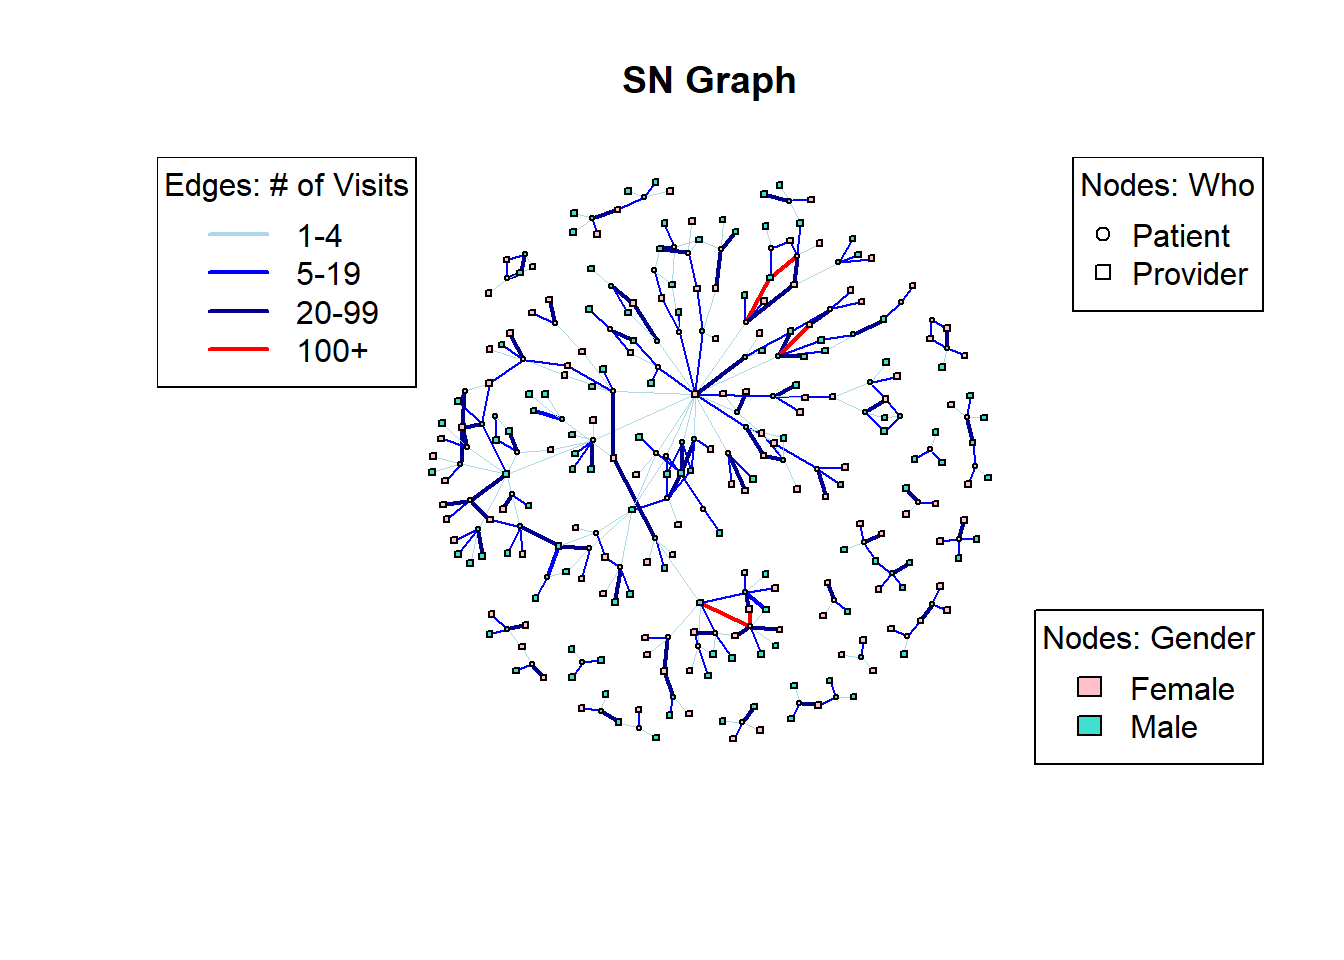
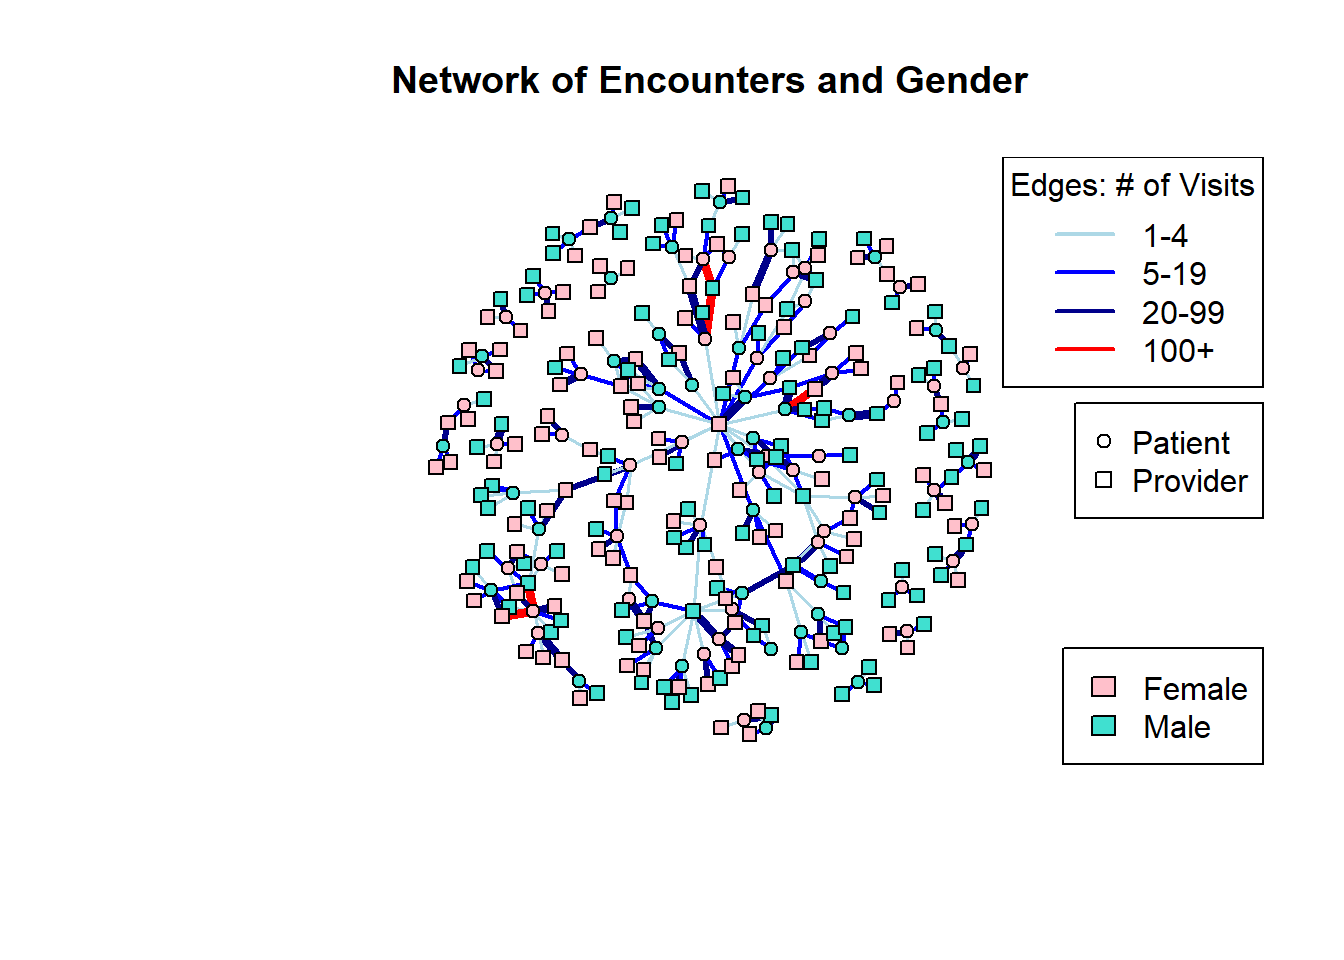
post one update graph

diff --git a/docs/posts/Post_One - Copy/post_1_drug.html b/docs/posts/Post_One - Copy/post_1_drug.html
@@ -7,7 +7,7 @@
 <meta name="viewport" content="width=device-width, initial-scale=1.0, user-scalable=yes">
 
 <meta name="author" content="Sue-Ellen Duffy">
-<meta name="dcterms.date" content="2024-04-29">
+<meta name="dcterms.date" content="2024-04-25">
 
 <title>Social_Networks_Blog_Space - POST 1</title>
 <style>
@@ -142,7 +142,7 @@ pre > code.sourceCode > span > a:first-child::before { text-decoration: underlin
 <header id="title-block-header" class="quarto-title-block default page-columns page-full">
   <div class="quarto-title-banner page-columns page-full">
     <div class="quarto-title column-body">
-      <h1 class="title">Data Cleaning, Exploration, and Network Analysis</h1>
+      <h1 class="title">POST 1</h1>
             <p class="subtitle lead">Data Cleaning, Exploration, and Network Analysis</p>
                                 <div class="quarto-categories">
                 <div class="quarto-category">code</div>
@@ -164,7 +164,7 @@ pre > code.sourceCode > span > a:first-child::before { text-decoration: underlin
       <div>
       <div class="quarto-title-meta-heading">Published</div>
       <div class="quarto-title-meta-contents">
-        <p class="date">April 29, 2024</p>
+        <p class="date">April 25, 2024</p>
       </div>
     </div>
     
@@ -442,7 +442,7 @@ date  (2): BIRTHDATE, DEATHDATE
 2 Julianne852 Barrows492 Female white Widowed  hamilton    39537    65
 3 Alesha810 Heaney114    Female white Divorced framingham 114339    46
 4 Sandee884 Rice937      Female white &lt;NA&gt;     taunton     96256    26
-5 Mia349 Runte676        Female white Divorced chelmsford  71238    44
+5 Mia349 Runte676        Female white Divorced chelmsford  71238    45
 6 Damian46 Dach178       Male   white &lt;NA&gt;     swansea     74155    26</code></pre>
 </div>
 </div>
@@ -881,7 +881,7 @@ dttm (2): START, STOP
 2 Julianne852 Barrows492 Female white Widowed  hamilton    39537    65 PATIENT
 3 Alesha810 Heaney114    Female white Divorced framingham 114339    46 PATIENT
 4 Sandee884 Rice937      Female white &lt;NA&gt;     taunton     96256    26 PATIENT
-5 Mia349 Runte676        Female white Divorced chelmsford  71238    44 PATIENT
+5 Mia349 Runte676        Female white Divorced chelmsford  71238    45 PATIENT
 6 Damian46 Dach178       Male   white &lt;NA&gt;     swansea     74155    26 PATIENT</code></pre>
 </div>
 </div>
@@ -960,18 +960,21 @@ dttm (2): START, STOP
 <span id="cb79-14"><a href="#cb79-14" aria-hidden="true" tabindex="-1"></a>edge_widths <span class="ot">&lt;-</span> <span class="fu">ifelse</span>(<span class="fu">E</span>(g)<span class="sc">$</span>COUNT <span class="sc">&lt;</span> <span class="dv">5</span>, <span class="dv">1</span>,</span>
 <span id="cb79-15"><a href="#cb79-15" aria-hidden="true" tabindex="-1"></a>                      <span class="fu">ifelse</span>(<span class="fu">E</span>(g)<span class="sc">$</span>COUNT <span class="sc">&lt;</span> <span class="dv">20</span>, <span class="dv">50</span>,</span>
 <span id="cb79-16"><a href="#cb79-16" aria-hidden="true" tabindex="-1"></a>                             <span class="dv">3</span> <span class="sc">*</span> (<span class="fu">E</span>(g)<span class="sc">$</span>COUNT <span class="sc">-</span> count_range[<span class="dv">1</span>]) <span class="sc">/</span> (count_range[<span class="dv">2</span>] <span class="sc">-</span> count_range[<span class="dv">1</span>])))</span>
-<span id="cb79-17"><a href="#cb79-17" aria-hidden="true" tabindex="-1"></a>edge_widths <span class="ot">&lt;-</span> edge_widths <span class="sc">*</span><span class="dv">300</span></span>
+<span id="cb79-17"><a href="#cb79-17" aria-hidden="true" tabindex="-1"></a></span>
 <span id="cb79-18"><a href="#cb79-18" aria-hidden="true" tabindex="-1"></a></span>
-<span id="cb79-19"><a href="#cb79-19" aria-hidden="true" tabindex="-1"></a>edge_widths <span class="ot">&lt;-</span> <span class="fu">ifelse</span>(<span class="fu">E</span>(g)<span class="sc">$</span>COUNT <span class="sc">&lt;</span> <span class="dv">5</span>, <span class="fl">0.5</span>, <span class="fu">ifelse</span>(<span class="fu">E</span>(g)<span class="sc">$</span>COUNT <span class="sc">&lt;</span> <span class="dv">20</span>, <span class="dv">1</span>, <span class="dv">2</span>))</span>
-<span id="cb79-20"><a href="#cb79-20" aria-hidden="true" tabindex="-1"></a>edge_colors <span class="ot">&lt;-</span> <span class="fu">ifelse</span>(<span class="fu">E</span>(g)<span class="sc">$</span>COUNT <span class="sc">&lt;</span> <span class="dv">5</span>, <span class="st">"lightblue"</span>, </span>
-<span id="cb79-21"><a href="#cb79-21" aria-hidden="true" tabindex="-1"></a>                      <span class="fu">ifelse</span>(<span class="fu">E</span>(g)<span class="sc">$</span>COUNT <span class="sc">&lt;=</span> <span class="dv">20</span>, <span class="st">"blue"</span>,</span>
-<span id="cb79-22"><a href="#cb79-22" aria-hidden="true" tabindex="-1"></a>                             <span class="fu">ifelse</span>(<span class="fu">E</span>(g)<span class="sc">$</span>COUNT <span class="sc">&lt;=</span> <span class="dv">100</span>, <span class="st">"darkblue"</span>,<span class="st">"red"</span>)))</span></code><button title="Copy to Clipboard" class="code-copy-button"><i class="bi"></i></button></pre></div>
+<span id="cb79-19"><a href="#cb79-19" aria-hidden="true" tabindex="-1"></a>edge_widths <span class="ot">&lt;-</span> <span class="fu">ifelse</span>(<span class="fu">E</span>(g)<span class="sc">$</span>COUNT <span class="sc">&lt;</span> <span class="dv">5</span>, <span class="fl">0.5</span>, </span>
+<span id="cb79-20"><a href="#cb79-20" aria-hidden="true" tabindex="-1"></a>                      <span class="fu">ifelse</span>(<span class="fu">E</span>(g)<span class="sc">$</span>COUNT <span class="sc">&lt;</span> <span class="dv">20</span>, .<span class="dv">8</span>, </span>
+<span id="cb79-21"><a href="#cb79-21" aria-hidden="true" tabindex="-1"></a>                             <span class="fu">ifelse</span>(<span class="fu">E</span>(g)<span class="sc">$</span>COUNT <span class="sc">&lt;</span> <span class="dv">50</span>, <span class="dv">1</span>, <span class="fl">1.5</span>)))</span>
+<span id="cb79-22"><a href="#cb79-22" aria-hidden="true" tabindex="-1"></a>edge_colors <span class="ot">&lt;-</span> <span class="fu">ifelse</span>(<span class="fu">E</span>(g)<span class="sc">$</span>COUNT <span class="sc">&lt;</span> <span class="dv">5</span>, <span class="st">"lightblue"</span>, </span>
+<span id="cb79-23"><a href="#cb79-23" aria-hidden="true" tabindex="-1"></a>                      <span class="fu">ifelse</span>(<span class="fu">E</span>(g)<span class="sc">$</span>COUNT <span class="sc">&lt;=</span> <span class="dv">20</span>, <span class="st">"blue"</span>,</span>
+<span id="cb79-24"><a href="#cb79-24" aria-hidden="true" tabindex="-1"></a>                             <span class="fu">ifelse</span>(<span class="fu">E</span>(g)<span class="sc">$</span>COUNT <span class="sc">&lt;=</span> <span class="dv">100</span>, <span class="st">"darkblue"</span>,<span class="st">"red"</span>)))</span>
+<span id="cb79-25"><a href="#cb79-25" aria-hidden="true" tabindex="-1"></a>edge_widths <span class="ot">&lt;-</span> edge_widths <span class="sc">*</span><span class="dv">3</span></span></code><button title="Copy to Clipboard" class="code-copy-button"><i class="bi"></i></button></pre></div>
 </div>
 <div class="cell">
 <div class="sourceCode cell-code" id="cb80"><pre class="sourceCode r code-with-copy"><code class="sourceCode r"><span id="cb80-1"><a href="#cb80-1" aria-hidden="true" tabindex="-1"></a><span class="fu">plot</span>(g, </span>
 <span id="cb80-2"><a href="#cb80-2" aria-hidden="true" tabindex="-1"></a>     <span class="at">layout =</span> layout.fruchterman.reingold, </span>
 <span id="cb80-3"><a href="#cb80-3" aria-hidden="true" tabindex="-1"></a>     <span class="at">vertex.label.dist =</span> <span class="dv">2</span>, </span>
-<span id="cb80-4"><a href="#cb80-4" aria-hidden="true" tabindex="-1"></a>     <span class="at">vertex.size =</span> <span class="dv">2</span>, </span>
+<span id="cb80-4"><a href="#cb80-4" aria-hidden="true" tabindex="-1"></a>     <span class="at">vertex.size =</span> <span class="dv">5</span>, </span>
 <span id="cb80-5"><a href="#cb80-5" aria-hidden="true" tabindex="-1"></a>     <span class="at">vertex.color =</span> vertex_colors,</span>
 <span id="cb80-6"><a href="#cb80-6" aria-hidden="true" tabindex="-1"></a>     <span class="at">vertex.shape =</span> vertex_shape,</span>
 <span id="cb80-7"><a href="#cb80-7" aria-hidden="true" tabindex="-1"></a>     <span class="at">edge.label =</span> <span class="cn">NA</span>,</span>
@@ -979,25 +982,23 @@ dttm (2): START, STOP
 <span id="cb80-9"><a href="#cb80-9" aria-hidden="true" tabindex="-1"></a>     <span class="at">vertex.label.cex =</span> <span class="fl">0.2</span>, </span>
 <span id="cb80-10"><a href="#cb80-10" aria-hidden="true" tabindex="-1"></a>     <span class="at">edge.width =</span> edge_widths,</span>
 <span id="cb80-11"><a href="#cb80-11" aria-hidden="true" tabindex="-1"></a>     <span class="at">edge.color =</span> edge_colors,</span>
-<span id="cb80-12"><a href="#cb80-12" aria-hidden="true" tabindex="-1"></a>     <span class="at">main =</span> <span class="st">"SN Graph"</span>)</span>
+<span id="cb80-12"><a href="#cb80-12" aria-hidden="true" tabindex="-1"></a>     <span class="at">main =</span> <span class="st">"Network of Encounters and Gender"</span>)</span>
 <span id="cb80-13"><a href="#cb80-13" aria-hidden="true" tabindex="-1"></a><span class="co"># Define legend for vertex colors</span></span>
 <span id="cb80-14"><a href="#cb80-14" aria-hidden="true" tabindex="-1"></a><span class="fu">legend</span>(<span class="st">"bottomright"</span>,</span>
-<span id="cb80-15"><a href="#cb80-15" aria-hidden="true" tabindex="-1"></a>       <span class="at">legend =</span> <span class="fu">c</span>(<span class="st">"Female"</span>, <span class="st">"Male"</span>),  <span class="co"># You can customize these labels</span></span>
-<span id="cb80-16"><a href="#cb80-16" aria-hidden="true" tabindex="-1"></a>       <span class="at">fill =</span> <span class="fu">c</span>(<span class="st">"pink"</span>, <span class="st">"turquoise"</span>),   <span class="co"># Fill colors corresponding to vertex colors</span></span>
-<span id="cb80-17"><a href="#cb80-17" aria-hidden="true" tabindex="-1"></a>       <span class="at">title =</span> <span class="st">"Nodes: Gender"</span>)              <span class="co"># Legend title</span></span>
-<span id="cb80-18"><a href="#cb80-18" aria-hidden="true" tabindex="-1"></a></span>
-<span id="cb80-19"><a href="#cb80-19" aria-hidden="true" tabindex="-1"></a><span class="co"># Define legend for vertex shapes</span></span>
-<span id="cb80-20"><a href="#cb80-20" aria-hidden="true" tabindex="-1"></a><span class="fu">legend</span>(<span class="st">"topright"</span>,</span>
-<span id="cb80-21"><a href="#cb80-21" aria-hidden="true" tabindex="-1"></a>       <span class="at">legend =</span> <span class="fu">c</span>(<span class="st">"Patient"</span>, <span class="st">"Provider"</span>),  <span class="co"># You can customize these labels</span></span>
-<span id="cb80-22"><a href="#cb80-22" aria-hidden="true" tabindex="-1"></a>       <span class="at">pch =</span> <span class="fu">c</span>(<span class="dv">1</span>, <span class="dv">0</span>),                      <span class="co"># Point shapes corresponding to vertex shapes</span></span>
-<span id="cb80-23"><a href="#cb80-23" aria-hidden="true" tabindex="-1"></a>       <span class="at">title =</span> <span class="st">"Nodes: Who"</span>)                     <span class="co"># Legend title</span></span>
-<span id="cb80-24"><a href="#cb80-24" aria-hidden="true" tabindex="-1"></a></span>
-<span id="cb80-25"><a href="#cb80-25" aria-hidden="true" tabindex="-1"></a><span class="co"># Define legend for edge colors</span></span>
-<span id="cb80-26"><a href="#cb80-26" aria-hidden="true" tabindex="-1"></a><span class="fu">legend</span>(<span class="st">"topleft"</span>,</span>
-<span id="cb80-27"><a href="#cb80-27" aria-hidden="true" tabindex="-1"></a>       <span class="at">legend =</span> <span class="fu">c</span>(<span class="st">"1-4"</span>, <span class="st">"5-19"</span>, <span class="st">"20-99"</span>, <span class="st">"100+"</span>),  <span class="co"># You can customize these labels</span></span>
-<span id="cb80-28"><a href="#cb80-28" aria-hidden="true" tabindex="-1"></a>       <span class="at">col =</span> <span class="fu">c</span>(<span class="st">"lightblue"</span>, <span class="st">"blue"</span>,<span class="st">"darkblue"</span>, <span class="st">"red"</span>),  <span class="co"># Line colors corresponding to edge colors</span></span>
-<span id="cb80-29"><a href="#cb80-29" aria-hidden="true" tabindex="-1"></a>       <span class="at">lwd =</span> <span class="dv">2</span>,                            <span class="co"># Line width</span></span>
-<span id="cb80-30"><a href="#cb80-30" aria-hidden="true" tabindex="-1"></a>       <span class="at">title =</span> <span class="st">"Edges: # of Visits"</span>)              <span class="co"># Legend title</span></span></code><button title="Copy to Clipboard" class="code-copy-button"><i class="bi"></i></button></pre></div>
+<span id="cb80-15"><a href="#cb80-15" aria-hidden="true" tabindex="-1"></a>       <span class="at">legend =</span> <span class="fu">c</span>(<span class="st">"Female"</span>, <span class="st">"Male"</span>),</span>
+<span id="cb80-16"><a href="#cb80-16" aria-hidden="true" tabindex="-1"></a>       <span class="at">fill =</span> <span class="fu">c</span>(<span class="st">"pink"</span>, <span class="st">"turquoise"</span>))     </span>
+<span id="cb80-17"><a href="#cb80-17" aria-hidden="true" tabindex="-1"></a></span>
+<span id="cb80-18"><a href="#cb80-18" aria-hidden="true" tabindex="-1"></a><span class="co"># Define legend for vertex shapes</span></span>
+<span id="cb80-19"><a href="#cb80-19" aria-hidden="true" tabindex="-1"></a><span class="fu">legend</span>(<span class="st">"right"</span>,</span>
+<span id="cb80-20"><a href="#cb80-20" aria-hidden="true" tabindex="-1"></a>       <span class="at">legend =</span> <span class="fu">c</span>(<span class="st">"Patient"</span>, <span class="st">"Provider"</span>), </span>
+<span id="cb80-21"><a href="#cb80-21" aria-hidden="true" tabindex="-1"></a>       <span class="at">pch =</span> <span class="fu">c</span>(<span class="dv">1</span>, <span class="dv">0</span>))</span>
+<span id="cb80-22"><a href="#cb80-22" aria-hidden="true" tabindex="-1"></a></span>
+<span id="cb80-23"><a href="#cb80-23" aria-hidden="true" tabindex="-1"></a><span class="co"># Define legend for edge colors</span></span>
+<span id="cb80-24"><a href="#cb80-24" aria-hidden="true" tabindex="-1"></a><span class="fu">legend</span>(<span class="st">"topright"</span>,</span>
+<span id="cb80-25"><a href="#cb80-25" aria-hidden="true" tabindex="-1"></a>       <span class="at">legend =</span> <span class="fu">c</span>(<span class="st">"1-4"</span>, <span class="st">"5-19"</span>, <span class="st">"20-99"</span>, <span class="st">"100+"</span>),  <span class="co"># You can customize these labels</span></span>
+<span id="cb80-26"><a href="#cb80-26" aria-hidden="true" tabindex="-1"></a>       <span class="at">col =</span> <span class="fu">c</span>(<span class="st">"lightblue"</span>, <span class="st">"blue"</span>,<span class="st">"darkblue"</span>, <span class="st">"red"</span>),  <span class="co"># Line colors corresponding to edge colors</span></span>
+<span id="cb80-27"><a href="#cb80-27" aria-hidden="true" tabindex="-1"></a>       <span class="at">lwd =</span> <span class="dv">2</span>,                            <span class="co"># Line width</span></span>
+<span id="cb80-28"><a href="#cb80-28" aria-hidden="true" tabindex="-1"></a>       <span class="at">title =</span> <span class="st">"Edges: # of Visits"</span>)              <span class="co"># Legend title</span></span></code><button title="Copy to Clipboard" class="code-copy-button"><i class="bi"></i></button></pre></div>
 <div class="cell-output-display">
 <p><img src="post_1_drug_files/figure-html/unnamed-chunk-32-1.png" class="img-fluid" width="672"></p>
 </div>

diff --git a/docs/index.html b/docs/index.html
@@ -252,7 +252,7 @@ Sue-Ellen Duffy
 </a>
 </div>
 </div>
-<div class="quarto-post image-right" data-index="2" data-categories="code,analysis,block_model" data-listing-date-sort="1714881600000" data-listing-file-modified-sort="1715051635750" data-listing-date-modified-sort="NaN" data-listing-reading-time-sort="7">
+<div class="quarto-post image-right" data-index="2" data-categories="code,analysis,block_model" data-listing-date-sort="1714881600000" data-listing-file-modified-sort="1715053120596" data-listing-date-modified-sort="NaN" data-listing-reading-time-sort="8">
 <div class="thumbnail">
 <p><a href="./posts/Post_Ten - Copy/post_10_drug.html"> <p class="card-img-top"><img src="posts\Post_Ten - Copy\post_10_drug_files\figure-html\unnamed-chunk-7-1.png"  class="thumbnail-image card-img"/></p> </a></p>
 </div>
@@ -375,7 +375,7 @@ Sue-Ellen Duffy
 </a>
 </div>
 </div>
-<div class="quarto-post image-right" data-index="5" data-categories="code,analysis,block_model" data-listing-date-sort="1714622400000" data-listing-file-modified-sort="1715050531863" data-listing-date-modified-sort="NaN" data-listing-reading-time-sort="15">
+<div class="quarto-post image-right" data-index="5" data-categories="code,analysis,block_model" data-listing-date-sort="1714622400000" data-listing-file-modified-sort="1715053117815" data-listing-date-modified-sort="NaN" data-listing-reading-time-sort="15">
 <div class="thumbnail">
 <p><a href="./posts/Post_Six - Copy/post_6_drug.html"> <p class="card-img-top"><img src="posts\Post_Six - Copy\post_6_drug_files\figure-html\unnamed-chunk-12-1.png"  class="thumbnail-image card-img"/></p> </a></p>
 </div>
@@ -583,7 +583,7 @@ Sue-Ellen Duffy
 </a>
 </div>
 </div>
-<div class="quarto-post image-right" data-index="10" data-categories="code,analysis" data-listing-date-sort="1714017600000" data-listing-file-modified-sort="1714955067532" data-listing-date-modified-sort="NaN" data-listing-reading-time-sort="15">
+<div class="quarto-post image-right" data-index="10" data-categories="code,analysis" data-listing-date-sort="1714017600000" data-listing-file-modified-sort="1715053852134" data-listing-date-modified-sort="NaN" data-listing-reading-time-sort="15">
 <div class="thumbnail">
 <p><a href="./posts/Post_One - Copy/post_1_drug.html"> <p class="card-img-top"><img src="posts\Post_One - Copy\SyntheticMassLogo.png"  class="thumbnail-image card-img"/></p> </a></p>
 </div>
